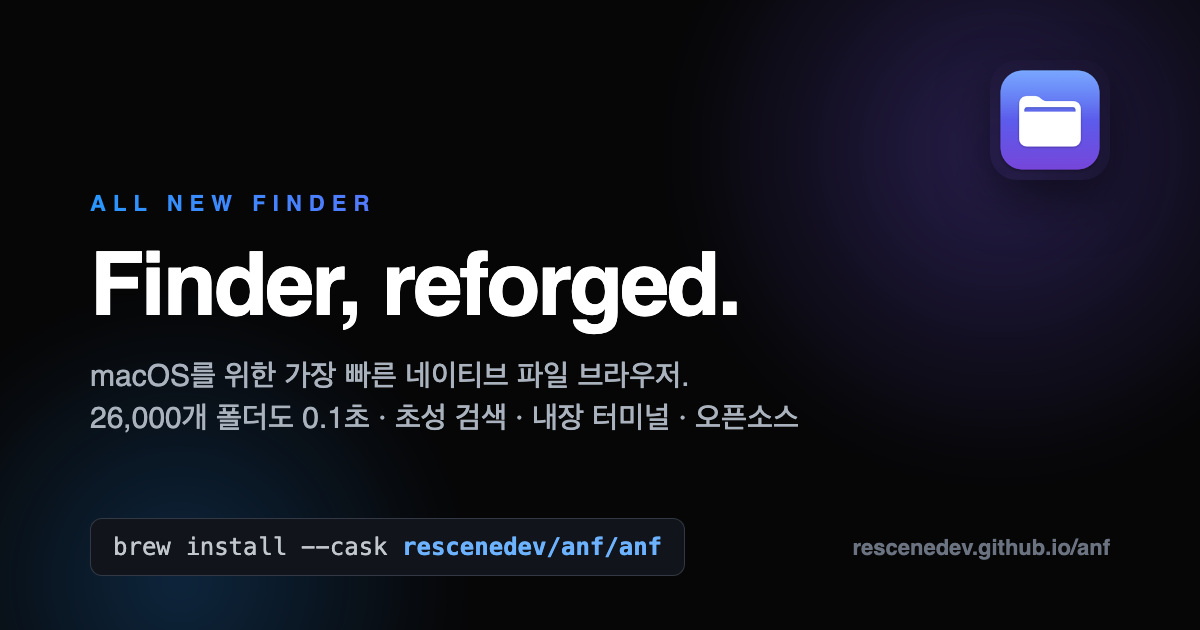
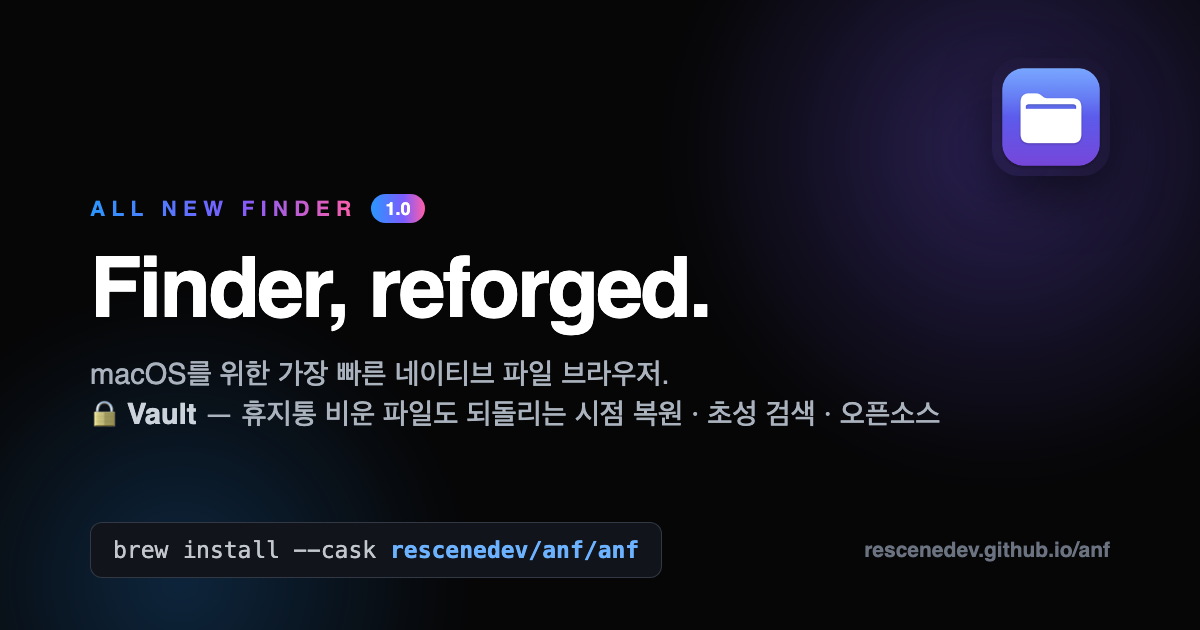
docs: landing 1.0 polish — hero version pill + Vault-forward OG share card
Hero eyebrow gains a gradient '1.0' pill. The OG/Twitter share card is
regenerated to lead with the killer feature ('🔒 Vault — recover files
even after emptying the Trash') so the Saturday link share hooks on the
differentiator, not a generic speed line.

diff --git a/docs/styles.css b/docs/styles.css
@@ -385,6 +385,13 @@ kbd {
   .nav-links a:not(:last-child):not(.nav-lang) { display: none; }
 }
 
+/* 1.0 version pill in the hero eyebrow */
+.ver-pill {
+  display: inline-block; padding: 2px 9px; border-radius: 999px; font-size: 12px;
+  font-weight: 800; color: #fff; letter-spacing: 0; vertical-align: middle;
+  background: linear-gradient(90deg, #2997ff, #7c5cff 60%, #ff5ea8);
+}
+
 /* ---- Vault flagship section ---- */
 .vault-band {
   position: relative;

diff --git a/docs/en/index.html b/docs/en/index.html
@@ -20,7 +20,7 @@
 <meta name="theme-color" content="#060607">
 <link rel="alternate" hreflang="ko" href="https://rescenedev.github.io/anf/">
 <link rel="alternate" hreflang="en" href="https://rescenedev.github.io/anf/en/">
-<link rel="stylesheet" href="../styles.css?v=6">
+<link rel="stylesheet" href="../styles.css?v=7">
 </head>
 <body>
 
@@ -41,7 +41,7 @@
 
   <!-- Hero -->
   <section class="hero">
-    <p class="eyebrow">all new finder</p>
+    <p class="eyebrow">all new finder · <span class="ver-pill">1.0</span></p>
     <h1>Finder, reforged.</h1>
     <p class="lead">Split panes, a built-in terminal, a command palette.<br>A fast, lightweight native file browser for macOS.</p>
     <div class="hero-cta">

diff --git a/docs/index.html b/docs/index.html
@@ -20,7 +20,7 @@
 <meta name="theme-color" content="#060607">
 <link rel="alternate" hreflang="ko" href="https://rescenedev.github.io/anf/">
 <link rel="alternate" hreflang="en" href="https://rescenedev.github.io/anf/en/">
-<link rel="stylesheet" href="styles.css?v=6">
+<link rel="stylesheet" href="styles.css?v=7">
 </head>
 <body>
 
@@ -41,7 +41,7 @@
 
   <!-- Hero -->
   <section class="hero">
-    <p class="eyebrow">all new finder</p>
+    <p class="eyebrow">all new finder · <span class="ver-pill">1.0</span></p>
     <h1>Finder, reforged.</h1>
     <p class="lead">분할 뷰, 내장 터미널, 커맨드 팔레트.<br>macOS를 위한 가볍고 빠른 네이티브 파일 브라우저.</p>
     <div class="hero-cta">

diff --git a/docs/privacy.html b/docs/privacy.html
@@ -5,7 +5,7 @@
 <meta name="viewport" content="width=device-width, initial-scale=1">
 <title>개인정보처리방침 — anf</title>
 <meta name="description" content="anf(all new finder) 개인정보처리방침">
-<link rel="stylesheet" href="styles.css?v=6">
+<link rel="stylesheet" href="styles.css?v=7">
 <style>
   .legal { max-width: 760px; margin: 0 auto; padding: 80px 22px 120px; }
   .legal h1 { font-size: 38px; letter-spacing: -.02em; margin-bottom: 10px; }